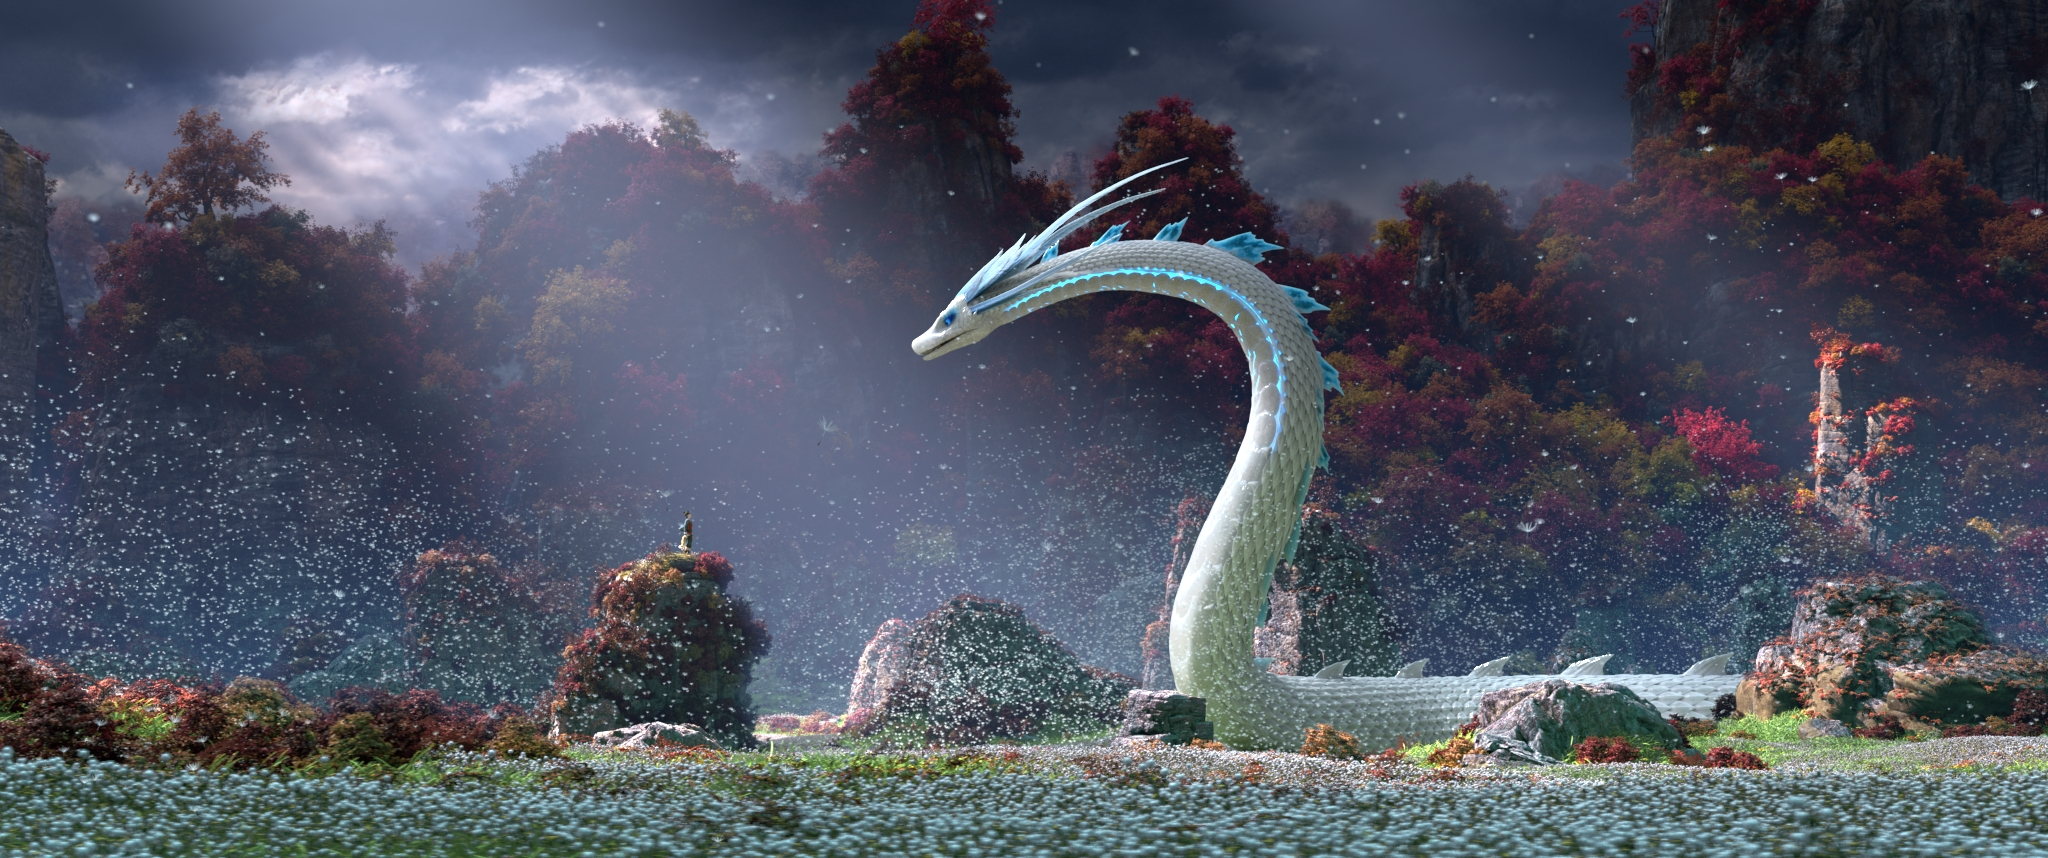
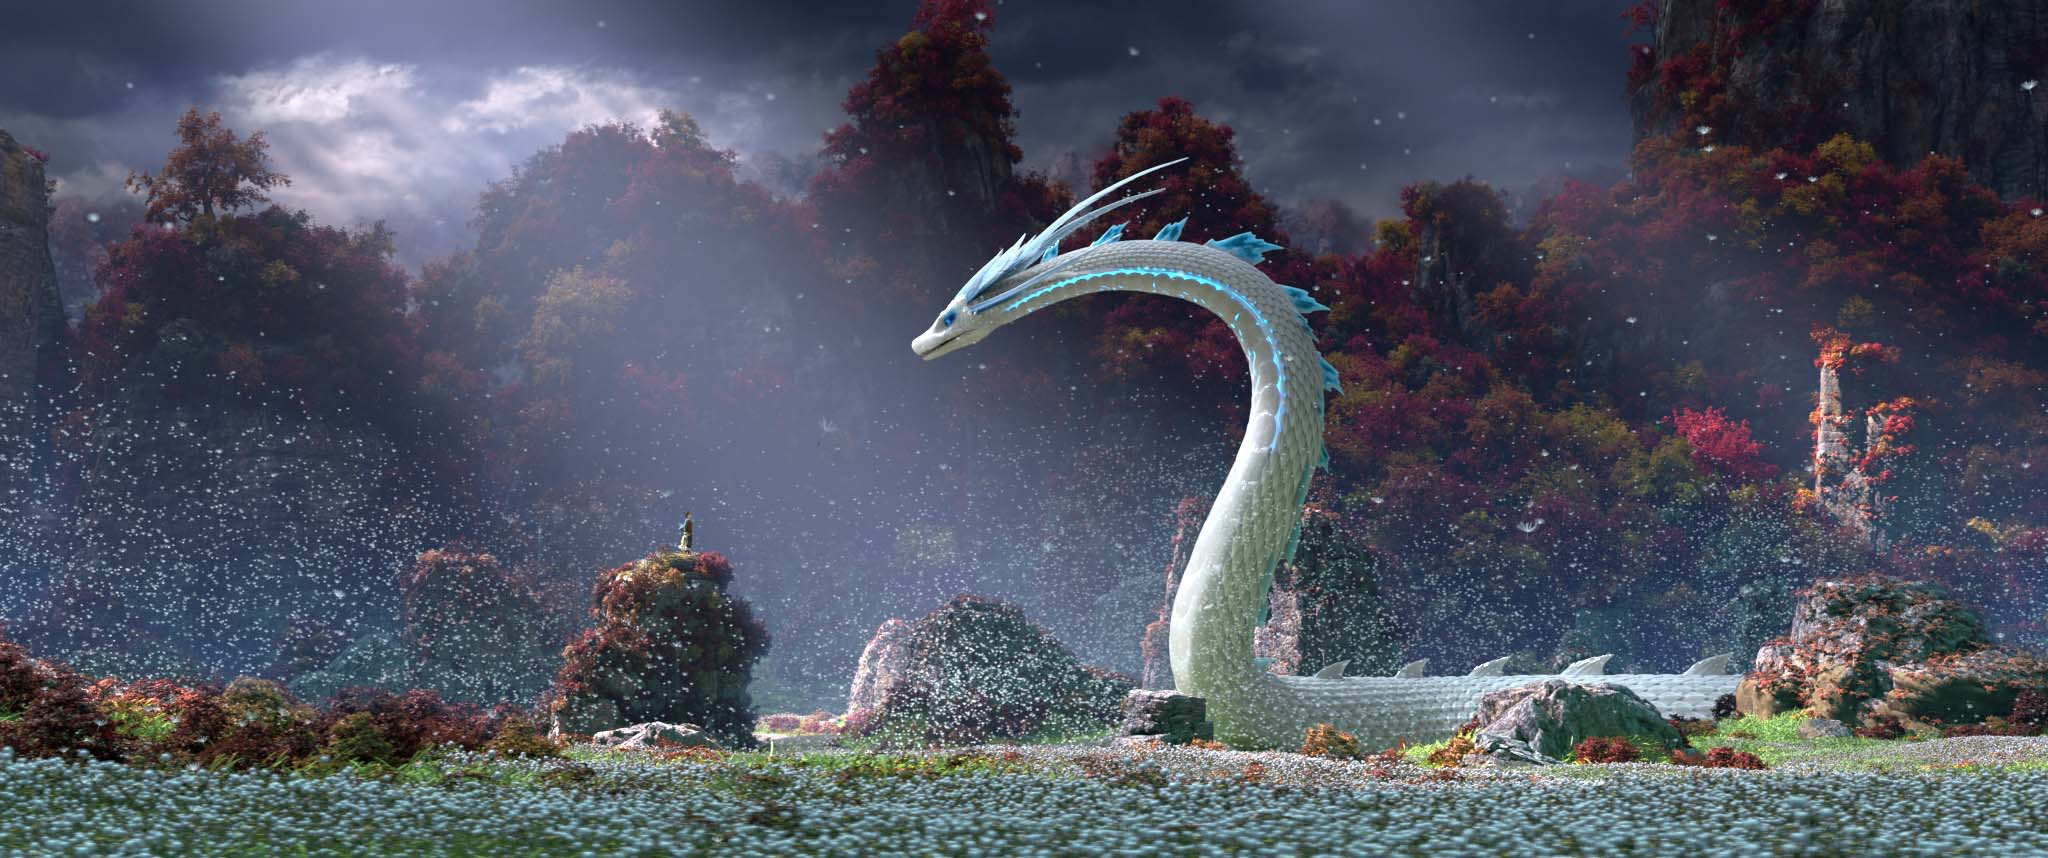
compress images

diff --git a/works/works_proclake/procedurallake.html b/works/works_proclake/procedurallake.html
@@ -9,7 +9,7 @@
     <meta name="author" content="Kevin Tsui">
   
     <title>Kevin Tsui`s Billboard</title>
-    <link rel="icon" type="../../image/x-icon" href="../../img/favicon.ico" />
+    <link rel="icon" type="../../image/x-icon" href="../../img/favicon_mario_bros.ico" />
   
     <!-- Bootstrap core CSS -->
     <link href="../../vendor/bootstrap/css/bootstrap.min.css" rel="stylesheet">

diff --git a/works/works_procriver/proceduralriver.html b/works/works_procriver/proceduralriver.html
@@ -9,7 +9,7 @@
     <meta name="author" content="Kevin Tsui">
   
     <title>Kevin Tsui`s Billboard</title>
-    <link rel="icon" type="../../image/x-icon" href="../../img/favicon.ico" />
+    <link rel="icon" type="../../image/x-icon" href="../../img/favicon_mario_bros.ico" />
   
     <!-- Bootstrap core CSS -->
     <link href="../../vendor/bootstrap/css/bootstrap.min.css" rel="stylesheet">

diff --git a/works/works_procroad/proceduralroad.html b/works/works_procroad/proceduralroad.html
@@ -9,7 +9,7 @@
     <meta name="author" content="Kevin Tsui">
   
     <title>Kevin Tsui`s Billboard</title>
-    <link rel="icon" type="../../image/x-icon" href="../../img/favicon.ico" />
+    <link rel="icon" type="../../image/x-icon" href="../../img/favicon_mario_bros.ico" />
   
     <!-- Bootstrap core CSS -->
     <link href="../../vendor/bootstrap/css/bootstrap.min.css" rel="stylesheet">

diff --git a/works/works_water/water.html b/works/works_water/water.html
@@ -9,7 +9,7 @@
     <meta name="author" content="Kevin Tsui">
   
     <title>Kevin Tsui`s Billboard</title>
-    <link rel="icon" type="../../image/x-icon" href="../../img/favicon.ico" />
+    <link rel="icon" type="../../image/x-icon" href="../../img/favicon_mario_bros.ico" />
   
     <!-- Bootstrap core CSS -->
     <link href="../../vendor/bootstrap/css/bootstrap.min.css" rel="stylesheet">

diff --git a/posts/post.html b/posts/post.html
@@ -9,7 +9,7 @@
   <meta name="author" content="Kevin Tsui">
 
   <title>Kevin Tsui`s Billboard</title>
-  <link rel="icon" type="../image/x-icon" href="../img/favicon.ico" />
+  <link rel="icon" type="../image/x-icon" href="../img/favicon_mario_bros.ico" />
 
   <!-- Bootstrap core CSS -->
   <link href="../vendor/bootstrap/css/bootstrap.min.css" rel="stylesheet">

diff --git a/about.html b/about.html
@@ -9,7 +9,7 @@
   <meta name="author" content="Kevin Tsui">
 
   <title>Kevin Tsui`s Billboard</title>
-  <link rel="icon" type="image/x-icon" href="img/favicon.ico" />
+  <link rel="icon" type="image/x-icon" href="img/favicon_mario_bros.ico" />
 
   <!-- Bootstrap core CSS -->
   <link href="vendor/bootstrap/css/bootstrap.min.css" rel="stylesheet">

diff --git a/index.html b/index.html
@@ -9,7 +9,7 @@
   <meta name="author" content="Kevin Tsui">
 
   <title>Kevin Tsui`s Billboard</title>
-  <link rel="icon" type="image/x-icon" href="img/favicon.ico" />
+  <link rel="icon" type="image/x-icon" href="img/favicon_mario_bros.ico" />
 
   <!-- Bootstrap core CSS -->
   <link href="vendor/bootstrap/css/bootstrap.min.css" rel="stylesheet">

diff --git a/posts.html b/posts.html
@@ -9,7 +9,7 @@
   <meta name="author" content="Kevin Tsui">
 
   <title>Kevin Tsui`s Billboard</title>
-  <link rel="icon" type="image/x-icon" href="img/favicon.ico" />
+  <link rel="icon" type="image/x-icon" href="img/favicon_mario_bros.ico" />
 
   <!-- Bootstrap core CSS -->
   <link href="vendor/bootstrap/css/bootstrap.min.css" rel="stylesheet">

diff --git a/works.html b/works.html
@@ -9,7 +9,7 @@
   <meta name="author" content="Kevin Tsui">
 
   <title>Kevin Tsui`s Billboard</title>
-  <link rel="icon" type="image/x-icon" href="img/favicon.ico" />
+  <link rel="icon" type="image/x-icon" href="img/favicon_mario_bros.ico" />
 
   <!-- Bootstrap core CSS -->
   <link href="vendor/bootstrap/css/bootstrap.min.css" rel="stylesheet">
